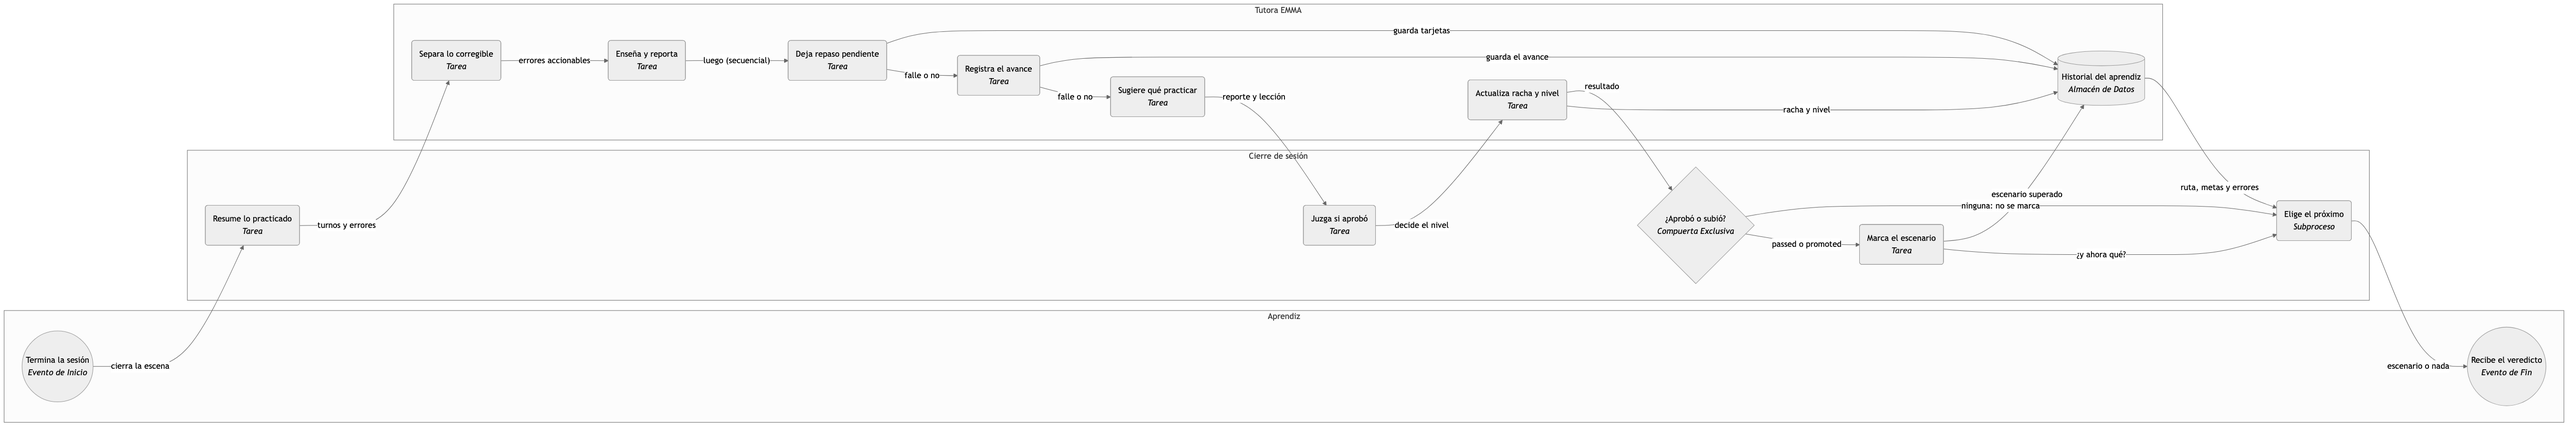
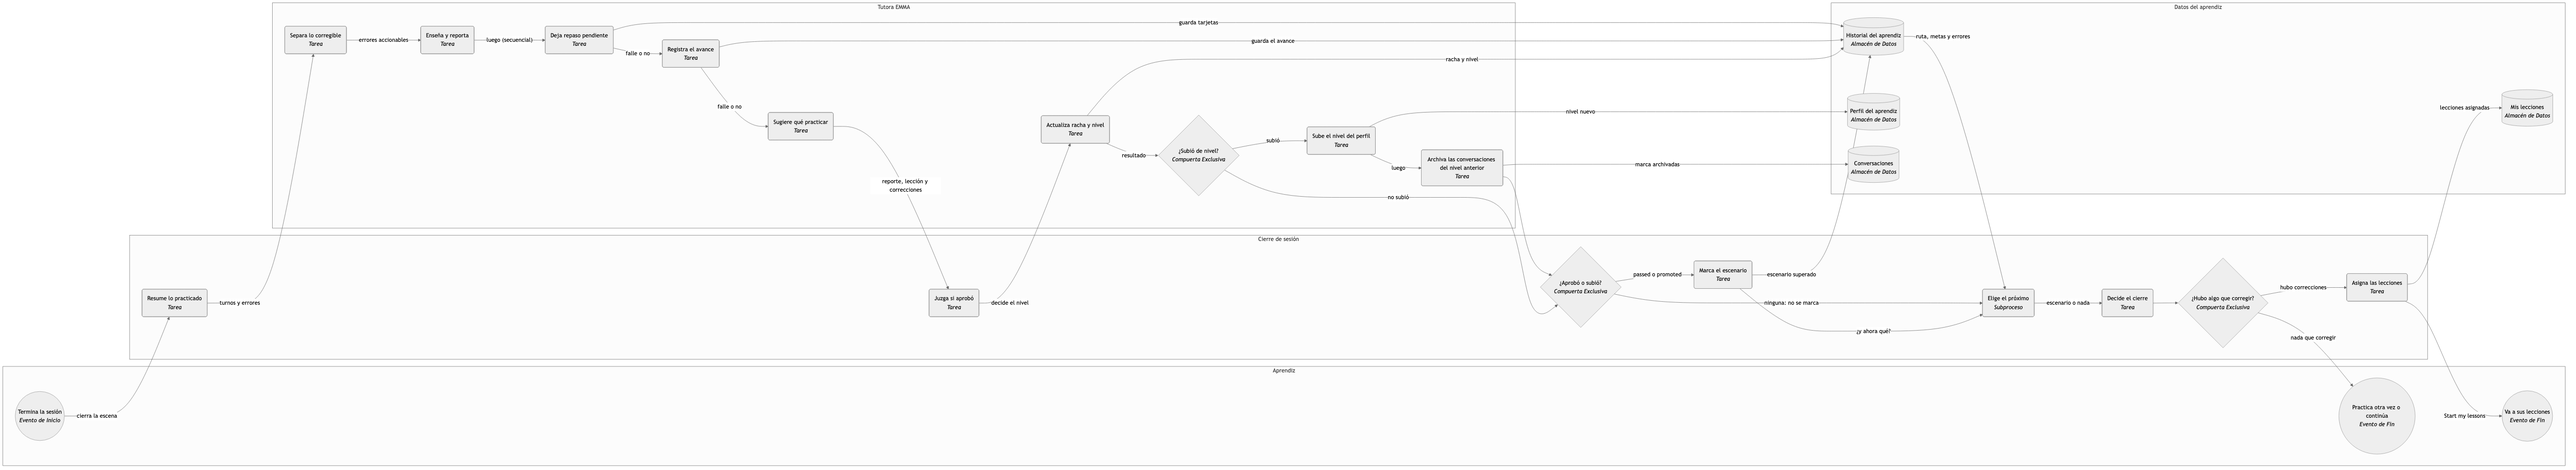
docs: arquitectura, diagrama de ruta y gotcha de la promoción
ARCHITECTURE suma los puertos de historial y nivel del perfil, el cierre
guiado, los niveles propios y la capa de movimiento. La instantánea de
«Ruta y progresión» muestra que la promoción escribe el perfil y archiva el
historial, y que el cierre asigna lecciones o pregunta practicar/continuar.
Gotcha nuevo: la promoción se escribía donde nadie leía.

Las vistas en PFA quedan pendientes: el MCP no estaba conectado.

Refs #213

diff --git a/docs/ARCHITECTURE.md b/docs/ARCHITECTURE.md
@@ -54,6 +54,14 @@ El dominio define **puertos** (interfaces); afuera viven los **adaptadores**.
 - Repos de persistencia (perfil, progresión, errores…) → interfaz en `domain`,
   adaptador en `infrastructure/persistence` sobre el store JSON del main vía IPC
   (`store-client.ts` → handlers `store-get`/`store-set`).
+- `src/domain/profile/i-profile-level-repository.ts` → `IProfileLevelRepository`
+  (`setEnglishLevel`): escribe `profile.englishLevel`, la fuente de verdad del nivel
+  que lee toda la app. Adaptador: `src/infrastructure/persistence/profile-repository.ts`.
+- `src/domain/chat/i-chat-history-repository.ts` → `IChatHistoryRepository`
+  (`list`/`save`/`remove`/`rename`): historial de conversaciones. Adaptador:
+  `src/infrastructure/persistence/chat-history-repository.ts`.
+
+Ambos se cablean en `src/interface/di/repositories.ts` (`profileLevel`, `chatHistory`).
 
 **Inyección:** los casos de uso reciben el puerto por argumento, nunca lo importan
 concreto. Ejemplo canónico: `application/english-teacher/teach-use-case.ts`
@@ -65,6 +73,43 @@ recibe `llm: LlmGenerate` en `TeachArgs`.
 `litert-engine.ts` (WebGPU), `remote-settings.ts` (modo local/hybrid/remote).
 El dominio solo ve `LlmGenerate`. Cada llamada respeta su presupuesto de tokens
 (`domain/shared/token-budgets.ts`).
+
+## Niveles: CEFR por dentro, «Level 1–5» por fuera
+
+La escala CEFR (A1…C1) sigue siendo el modelo interno: tipos, reglas de
+progresión, prompts al LLM y claves del almacén. La UI **nunca** la muestra:
+pinta «Level N» con `levelLabel`/`levelNumber` de `src/domain/cefr/cefr-ladder.ts`.
+Freno: `src/components/__tests__/niveles-propios.test.ts` (falla si un código CEFR
+o la palabra CEFR aparece en texto visible).
+
+## Cierre de sesión y promoción
+
+Al terminar una simulación (`src/components/chat/use-end-session.ts`, que usa
+`src/components/chat/use-finish-session.ts`):
+
+1. `EmmaRuntime.finishSession` corrige, enseña, deja repaso, mide y recomienda
+   (en secuencia; ningún guardado bloquea el cierre) y devuelve cuántas
+   correcciones reportables hubo.
+2. `EvaluateProgressionUseCase` actualiza racha y nivel en `progression`. **Si
+   promueve**, escribe el nivel nuevo en el perfil (`IProfileLevelRepository`) y
+   archiva las conversaciones del nivel superado con
+   `src/application/chat/archive-history-on-level-up-use-case.ts`
+   (`IChatHistoryRepository`). La barra lateral las muestra en «Archived»,
+   agrupadas por nivel y de solo lectura.
+3. `closingPlanFor` (`src/domain/lessons/closing-plan.ts`, puro) decide el
+   cierre: con correcciones, las lecciones de remediación se **asignan solas**
+   con `assignSessionLessons` (idempotente por conversación) y el diálogo lleva a
+   «My lessons»; sin correcciones, pregunta «Practice again» o «Continue».
+
+La autoevaluación (checklists de «can-do») se retiró: no influía en el nivel.
+
+## Movimiento (animaciones)
+
+Las prácticas y la lista de lecciones animan con `motion` **solo** a través de
+`src/components/motion/` (envoltorios + presets, cada uno con su variante reducida
+para `prefers-reduced-motion`). Freno:
+`src/components/__tests__/movimiento-centralizado.test.ts` (falla si un componente
+animado importa `motion/react` directo).
 
 ## Procesos Electron
 

diff --git a/docs/BOOK_MAPPING.md b/docs/BOOK_MAPPING.md
@@ -150,9 +150,9 @@ Implementación completa (todas las olas):
 
 1. **Datos** — 26 unidades (chunks, trampas, retos 1–72), fonética Parte 1,
    137 ejercicios con solucionario, apéndices A–K (~700 entradas).
-2. **Dominio** — currículo (ciclo 7 pasos, plan 24 semanas, checklists H,
-   reglas del método, unit-catalog), SRS Leitner + tarjetas, evaluación
-   determinista de ejercicios, drill perceptivo de pares mínimos.
+2. **Dominio** — currículo (ciclo 7 pasos, plan 24 semanas, reglas del método,
+   unit-catalog; los checklists H se retiraron en #208), SRS Leitner + tarjetas,
+   evaluación determinista de ejercicios, drill perceptivo de pares mínimos.
 3. **Integración** — bloque LANGUAGE FOCUS en el prompt de simulación por
    unidad de sesión; chips con chunks + banco G; lección con trampas +
    Apéndice E; tarjetas SRS generadas desde los errores al cerrar sesión;
@@ -166,8 +166,9 @@ Implementación completa (todas las olas):
    `buildTutorBriefing`) + `application/tutor/get-tutor-context-use-case.ts`.
    El agente conoce y decide en cada punto: bienvenida con briefing del plan
    (semana/unidad/pendientes), TUTOR AWARENESS en escena (débil en X →
-   provoca práctica sin romper personaje), cierre de sesión con «Próximos
-   pasos» clicables (deep-links a `/practice`), siguiente escenario con boost
+   provoca práctica sin romper personaje), cierre de sesión que asigna solo
+   las lecciones de remediación a «My lessons» (o, sin correcciones, pregunta
+   si practicar otra vez o continuar; #211), siguiente escenario con boost
    por semana del plan, tarjeta de plan en Progreso.
 
 6. **Naturalidad de la conversación** — la escena reacciona antes de preguntar,

diff --git a/docs/gotchas.md b/docs/gotchas.md
@@ -21,6 +21,25 @@ Mecanismo: <el comando que ahora falla si alguien lo repite — o "ninguno ejecu
 
 ---
 
+### GOTCHA: subir de nivel no cambiaba nada en la app — la promoción se escribía donde nadie leía
+
+Síntoma: el aprendiz completaba la racha, el cierre decía «You moved up to …» y, al volver
+  al inicio, la ruta, las prácticas y la próxima escena seguían en el nivel anterior. Tests
+  y gate verdes.
+Causa:   `EvaluateProgressionUseCase` guardaba el nivel nuevo sólo en la colección
+  `progression`, pero toda la app lee el nivel de `profile.englishLevel`. Era una escritura
+  que nadie leía: dos fuentes de verdad para el mismo dato, y la prueba del caso de uso sólo
+  fijaba el `upsert` de la progresión, no que el nivel llegara a donde se consume.
+Regla:   el perfil es la única fuente de verdad del nivel. Al promover, el caso de uso
+  escribe el perfil a través del puerto `IProfileLevelRepository` (y archiva el historial del
+  nivel superado). Un dato que se escribe tiene que tener un lector: al agregar una
+  escritura, se busca quién la lee.
+Mecanismo: `pnpm test` — `src/application/progression/__tests__/evaluate-progression-use-case.test.ts`
+  («al promover escribe el nivel nuevo en el perfil con la fecha inyectada» y «sin promoción
+  no toca el perfil») falla si la promoción deja de escribir el perfil.
+
+---
+
 ### GOTCHA: el corrector ortográfico sugería en español aunque el diccionario fuera en-US
 
 Síntoma: en macOS (2026-09-25) el aprendiz escribía «I am a soluction» y el menú contextual

diff --git a/STATUS.md b/STATUS.md
@@ -16,6 +16,12 @@ verificado con un comando**; lo que se supone va en "deuda conocida".
   v0.6.0. v0.1.0 quedó retirada de hecho (dmg roto, gotcha 2026-08-31) y v0.1.1 sigue en
   BORRADOR con sus 3 instaladores. Publicar un borrador sigue siendo gesto del humano.
 - **Pendiente de #195:** T7 (#203), vistas de PFA (requiere la app conectada).
+- **Rama feat/cierre-y-niveles (#206):** subir de nivel escribe `profile.englishLevel` y
+  archiva el historial del nivel superado («Archived», solo lectura); autoevaluación
+  retirada; la UI muestra «Level 1–5» (CEFR solo interno); prácticas con `motion` vía
+  `src/components/motion/`; el cierre asigna solo las lecciones y lleva a «My lessons» o
+  pregunta practicar/continuar. Instantánea «Ruta y progresión» reescrita; el lienzo de
+  PFA (esa vista y «Simulación y feedback») sigue pendiente de sincronizar.
 - **Milestone v0.5.0 fusionado (2026-09-25):** lección en karaoke con audio al lado, escena
   visible en modal durante el chat, correcciones triviales fuera del feedback, gramática con
   tres formas y verbos resaltados, lista de lecciones («Mis lecciones» en Práctica), turnos
